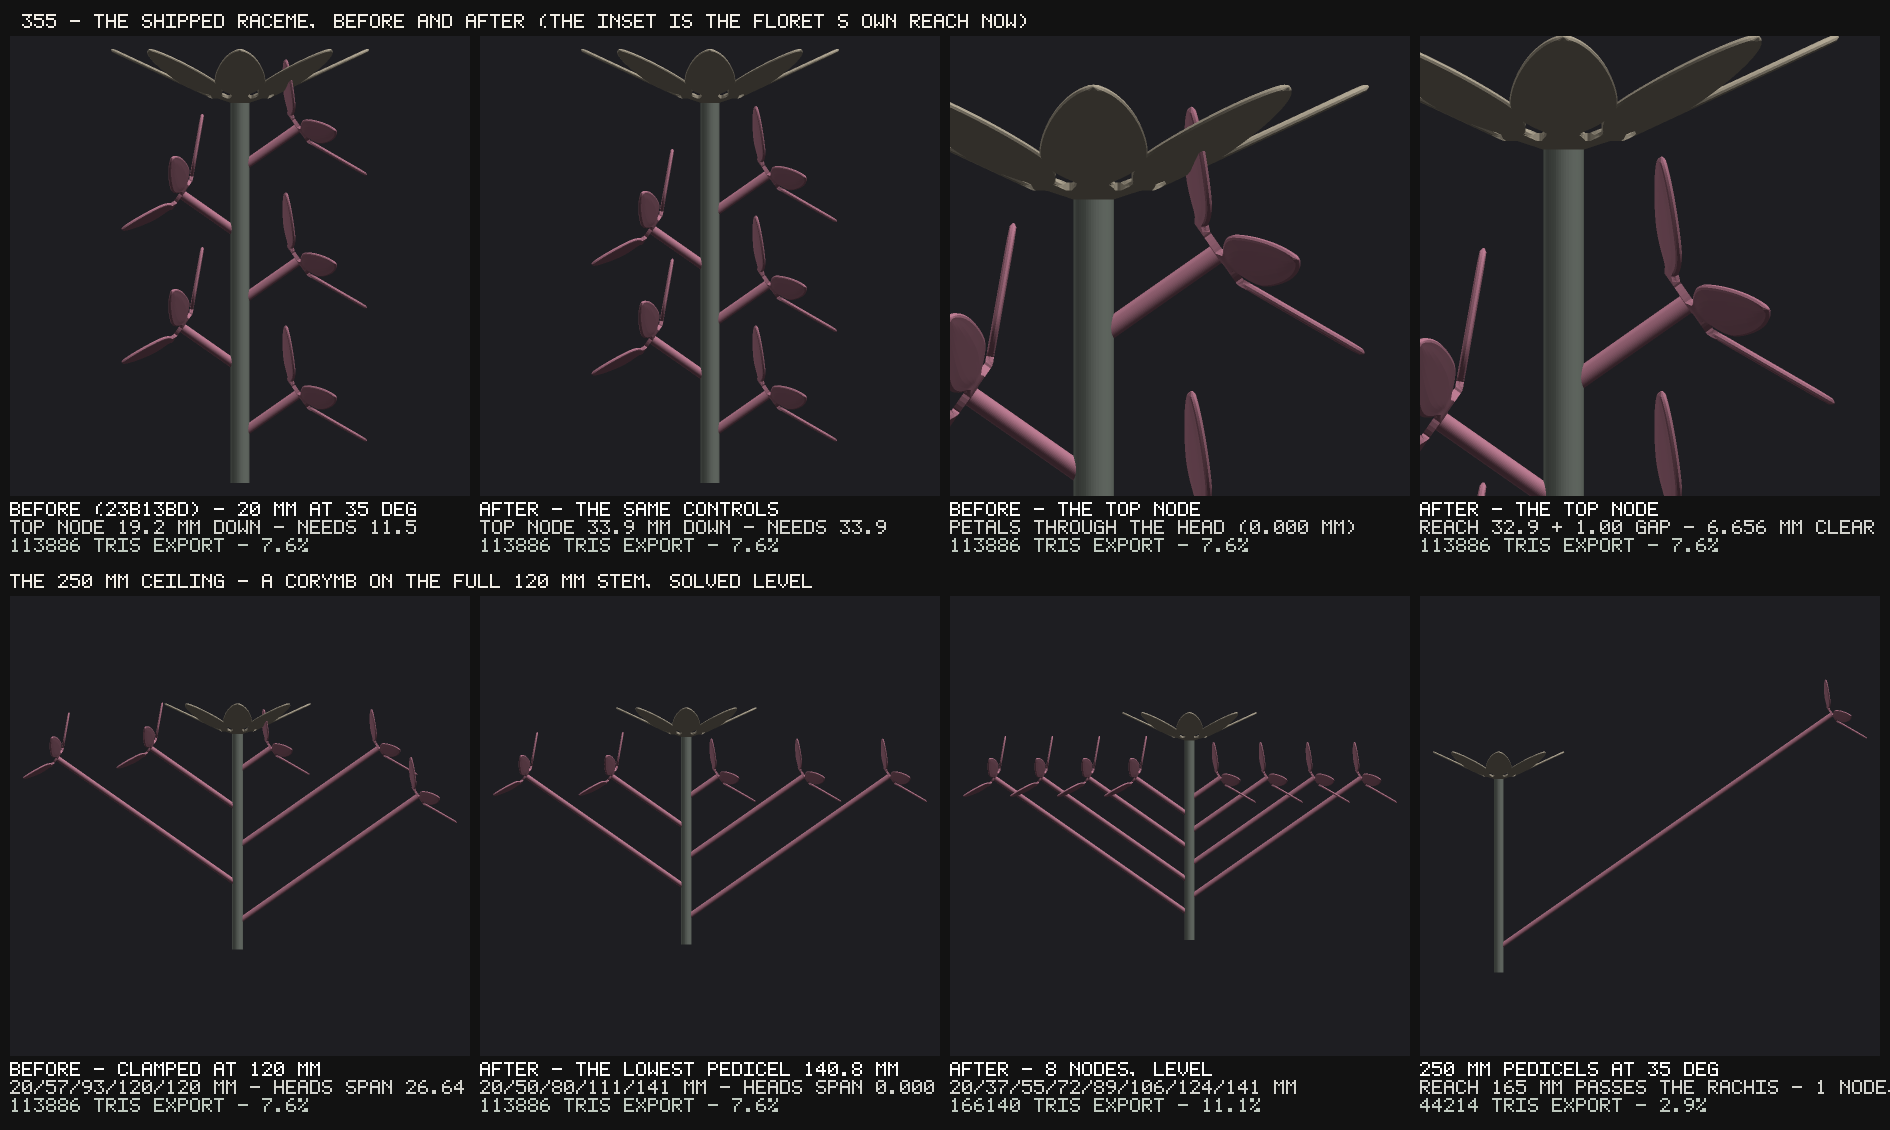
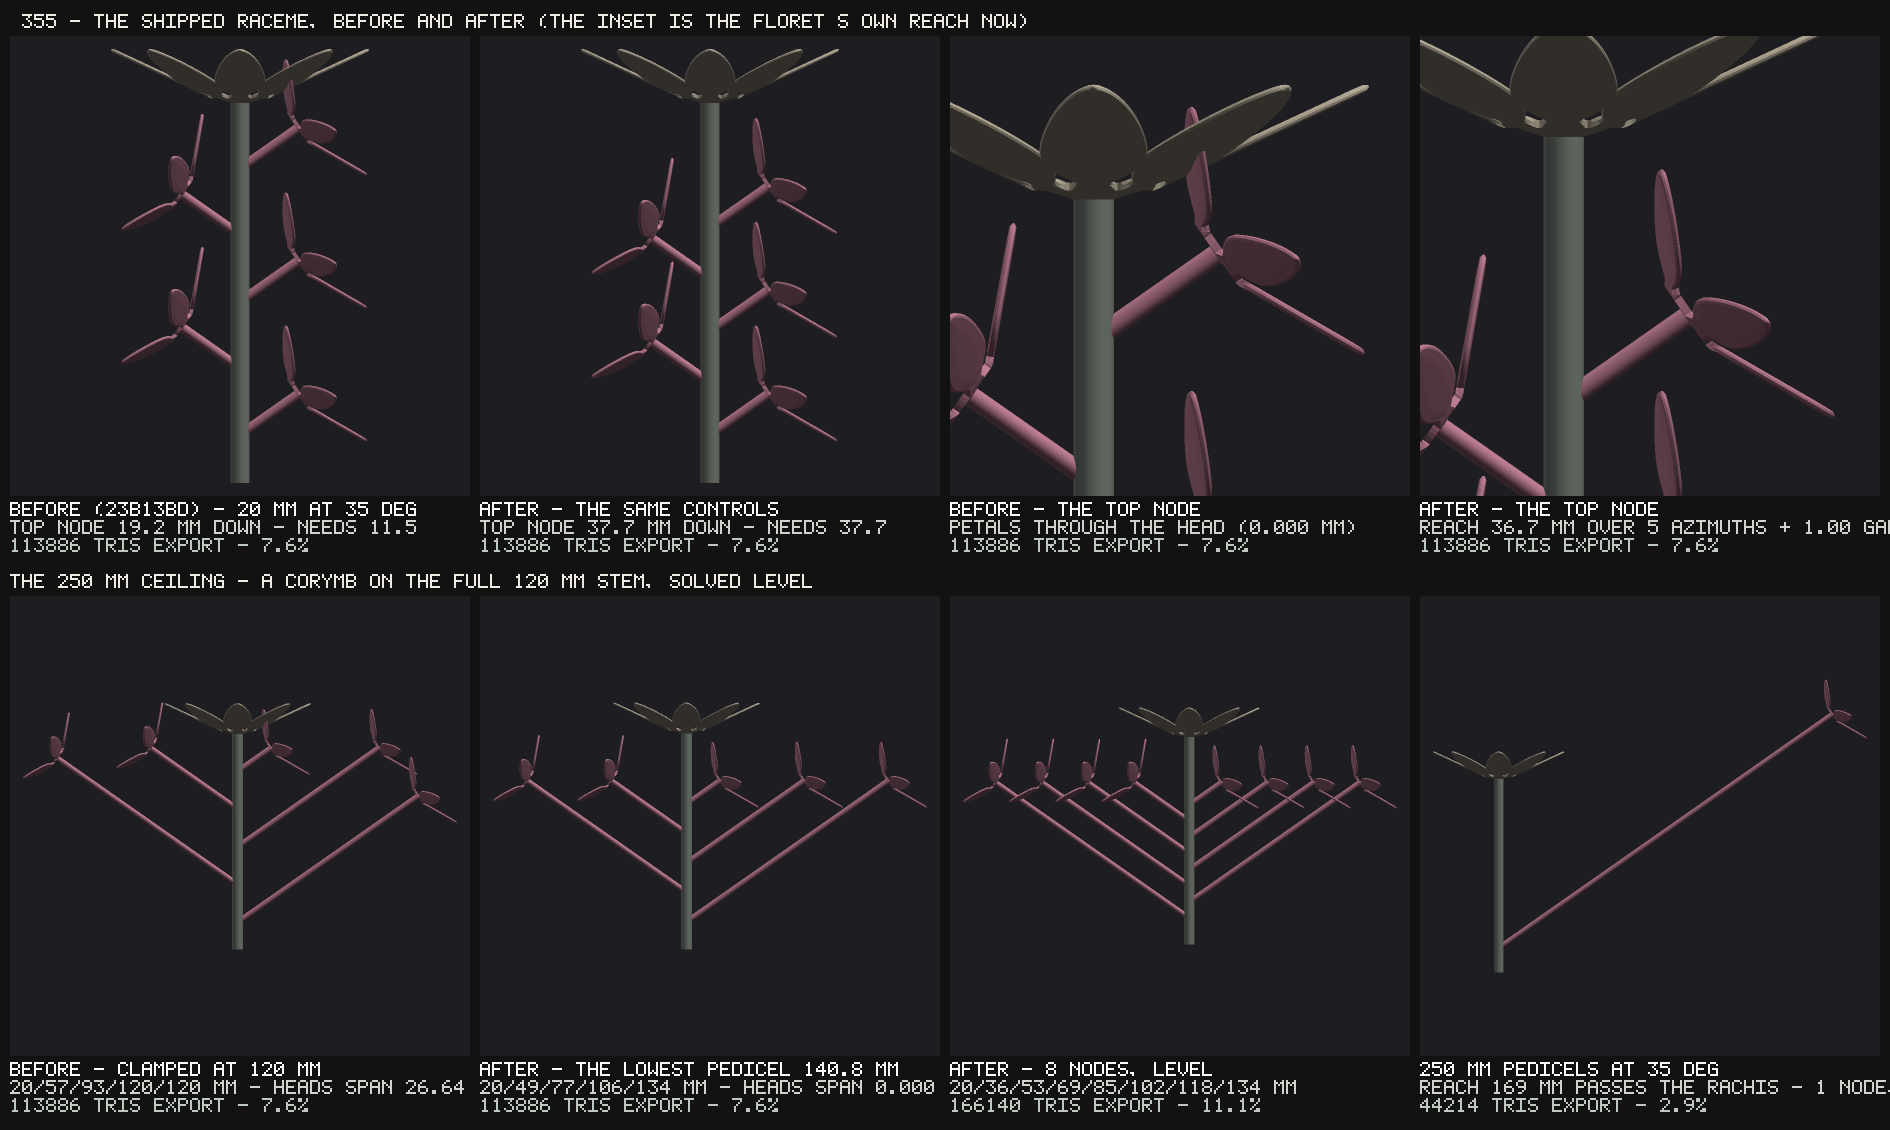
Build 3 Phase A: the reach is the max over every azimuth the phyllotaxy produces (the smoke subset found WHORLED 3.37 mm into the gap); the measured side is every placement
Claude-Session: https://claude.ai/code/session_019H4DRyZoQZ5SjTVL6qaNGK

diff --git a/bloom-geometry.js b/bloom-geometry.js
@@ -15467,14 +15467,27 @@ export function inflorescencePlan(state, stem, acc) {
     pedicelR, pedicelLenMm, angleDeg, rootR, embedMm, rootZ: 0, nodeDepthsMm: [0] };
   const unitMemo = floretUnitMemo(state, pre);
   const sessileTop = pedicelLenMm === 0;
+  /* OVER EVERY AZIMUTH THE PHYLLOTAXY PRODUCES ON ANY ASKED NODE — found by
+     the smoke subset, not reasoned: the placement's roll about the pedicel is
+     the MINIMAL rotation (about `z x D`), so a floret whose petals are not
+     symmetric about its own axis lands with a different petal UP at each
+     azimuth, and on `INFLO: WHORLED` the two florets the first cut did not
+     measure reached 3.37 mm higher than the one at azimuth 0 — into the gap,
+     with `insetSatisfied` reading true. The max over the whole azimuth set
+     makes the TOP node's inset conservative for every node (each lower node is
+     deeper by at least the pitch), and the distinct azimuths are few (two,
+     four, or whorled's rotating set), each a pass over the unit's vertices. */
+  const reachAzimuths = [...new Set(Array.from({ length: Math.max(1, nodesAsked) }, (_, i) => leafAzimuths(phyllo, i)).flat())];
   const reachOf = (exportMode) => {
     const U = unitMemo.get(pedicelLenMm, exportMode);
-    const pl = pedicelPlacement(pre, 0, 0, U.tipZLocal, sessileTop);
-    const M = pl.M, src = U.sub.positions;
+    const src = U.sub.positions;
     let top = -Infinity;
-    for (let k = 0; k < src.length; k += 3) {
-      const z = M[8] * src[k] + M[9] * src[k + 1] + M[10] * src[k + 2] + M[11];
-      if (z > top) top = z;
+    for (const az of reachAzimuths) {
+      const M = pedicelPlacement(pre, 0, az, U.tipZLocal, sessileTop).M;
+      for (let k = 0; k < src.length; k += 3) {
+        const z = M[8] * src[k] + M[9] * src[k + 1] + M[10] * src[k + 2] + M[11];
+        if (z > top) top = z;
+      }
     }
     return { reachMm: top, tris: U.tris };
   };
@@ -15564,7 +15577,7 @@ export function inflorescencePlan(state, stem, acc) {
     gradient, corymbAsked, corymb, corymbInert, graded, pedicelLensMm, pedicelLensAskedMm,
     lengthsClamped, lenCeilMm, sessileNodes,
     insetAskedMm, insetNeededMm, insetMm, insetClamped, insetSatisfied,
-    floretReachMm, reachRawMm, reachMm, reachGridMm: INFLO_REACH_GRID_MM, headFloorZ, insetGapMm: MIN_FEATURE_MM, unitMemo,
+    floretReachMm, reachRawMm, reachMm, reachGridMm: INFLO_REACH_GRID_MM, reachAzimuths, headFloorZ, insetGapMm: MIN_FEATURE_MM, unitMemo,
     boreR: stem.boreR, outerR: stem.outerR, rootZ: stem.rootZ, stemTipZ: stem.tipZ, rachisLengthMm: stem.lengthMm,
     floretPetals: Math.round(Number(state.floretPetals)), scale,
     petalLength, petalWidth, lengthAsked, widthAsked, sizeClamped, sizeDeadBelow,
@@ -15796,10 +15809,12 @@ export function buildInflorescenceInto(acc, state, plan, memo = null) {
      BUILDER emitted, carried through this placement — never re-derived from
      the plan's length and angle, which is session 43's ST2. */
   let rachisApproach = Infinity;
-  /* THE TOP NODE'S OWN HIGHEST EMITTED VERTEX (build 3) — ID9's measured side
-     for the reach inset, read in the pass that already walks every appended
-     float, so the plan's declared reach and the artefact have two owners. */
-  let topNodeMaxZ = -Infinity;
+  /* THE FLORETS' HIGHEST EMITTED VERTEX over EVERY placement (build 3) —
+     ID9's measured side for the reach inset, read in the pass that already
+     walks every appended float, so the plan's declared reach and the artefact
+     have two owners. Every placement, not node 0's: the law is conservative
+     for every node, and a lower floret rolled petal-up is the case it covers. */
+  let floretsMaxZ = -Infinity;
   /* THE DISTANCE IS `freeStemDistanceMm`'s, NOT A SECOND COPY OF IT. The
      first cut wrote `hypot(max(0, r - outerR), max(0, tipZ - z, z - rootZ))`
      out again here — which is that function term for term, i.e. exactly the
@@ -15872,7 +15887,7 @@ export function buildInflorescenceInto(acc, state, plan, memo = null) {
            ruled stays reachable. */
         const X = acc.positions[at + k], Y = acc.positions[at + k + 1], Z = acc.positions[at + k + 2];
         if (Z <= plan.rootZ && Z >= plan.stemTipZ) { const rr = Math.hypot(X, Y); if (rr < wallReachR) wallReachR = rr; }
-        if (i === 0 && Z > topNodeMaxZ) topNodeMaxZ = Z;
+        if (Z > floretsMaxZ) floretsMaxZ = Z;
         /* A SESSILE FLORET IS FUSED INTO ITS RACHIS BY THE ROOT LAW, so it is
            not in this flag's subject: a clearance between two solids the
            design joins means nothing (ST9's own scope sentence). Its join is
@@ -15913,7 +15928,7 @@ export function buildInflorescenceInto(acc, state, plan, memo = null) {
   const headSpreadMm = headZ.length ? Math.max(...headZ) - Math.min(...headZ) : null;
   return {
     present: true, unitTris, tipZLocal, count: placed.length, placed, headSpreadMm,
-    topNodeMaxZ: Number.isFinite(topNodeMaxZ) ? topNodeMaxZ : null,
+    floretsMaxZ: Number.isFinite(floretsMaxZ) ? floretsMaxZ : null,
     /* EVERY DISTINCT UNIT, in node order — unit 0 is the topmost node's and
        is the one the legacy single-unit fields below describe. */
     units: units.map((U) => ({

diff --git a/bloom.js b/bloom.js
@@ -2581,7 +2581,7 @@ window.__bloomMetrics = () => ({
     insetSatisfied: lastInflo.insetSatisfied,
     /* the reach law's own inputs (build 3) — never the memo, which is a closure */
     floretReachMm: lastInflo.floretReachMm ? { ...lastInflo.floretReachMm } : null,
-    reachMm: lastInflo.reachMm, reachRawMm: lastInflo.reachRawMm, reachGridMm: lastInflo.reachGridMm, headFloorZ: lastInflo.headFloorZ, insetGapMm: lastInflo.insetGapMm,
+    reachMm: lastInflo.reachMm, reachRawMm: lastInflo.reachRawMm, reachGridMm: lastInflo.reachGridMm, reachAzimuths: lastInflo.reachAzimuths ? lastInflo.reachAzimuths.slice() : null, headFloorZ: lastInflo.headFloorZ, insetGapMm: lastInflo.insetGapMm,
     floretPetals: lastInflo.floretPetals, scale: lastInflo.scale,
     petalLength: lastInflo.petalLength, petalWidth: lastInflo.petalWidth,
     lengthAsked: lastInflo.lengthAsked, widthAsked: lastInflo.widthAsked,
@@ -2645,7 +2645,7 @@ window.__bloomMetrics = () => ({
        pedicel length, in node order, unit 0 the topmost node's and the one
        `unit` above describes. Positions stay out, for `unitPositions`' reason. */
     headSpreadMm: lastInfloBuilt.headSpreadMm,
-    topNodeMaxZ: lastInfloBuilt.topNodeMaxZ,
+    floretsMaxZ: lastInfloBuilt.floretsMaxZ,
     units: lastInfloBuilt.units.map((U) => ({
       lengthMm: U.lengthMm, tris: U.tris, tipZLocal: U.tipZLocal, stalked: U.stalked,
       petalsBuilt: U.petalsBuilt, hubRadius: U.hubRadius, hubThickness: U.hubThickness,
